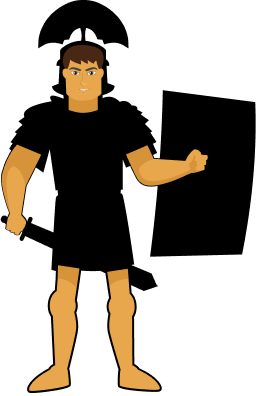
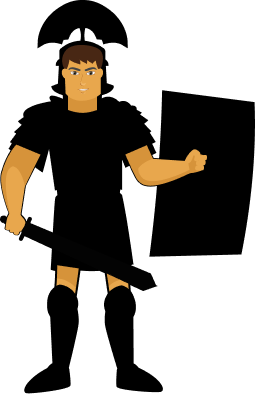
Tweak character, word placement, iOS Build

diff --git a/lib/widgets/heart_modal_widget.dart b/lib/widgets/heart_modal_widget.dart
@@ -88,6 +88,7 @@ class HeartModal extends HookConsumerWidget {
                                   fontFamily: 'PlaypenSans',
                                 ),
                               ),
+                        Divider(),
                         Row(
                           mainAxisAlignment: MainAxisAlignment.spaceBetween,
                           children: [
@@ -99,21 +100,18 @@ class HeartModal extends HookConsumerWidget {
                                   _showKeyboard();
                                 },
                                 icon: const Icon(Icons.edit)),
-                            Container(
-                              decoration: BoxDecoration(border: Border.all()),
-                              child: IconButton(
-                                  padding: const EdgeInsets.all(
-                                      4.0), // Adjust padding
-                                  constraints: const BoxConstraints(
-                                    minWidth:
-                                        24.0, // Adjust these values to make the button smaller
-                                    minHeight: 24.0,
-                                  ),
-                                  onPressed: () {
-                                    onRemove(verses.current[index]);
-                                  },
-                                  icon: const Icon(Icons.delete_forever)),
-                            ),
+                            IconButton(
+                                padding:
+                                    const EdgeInsets.all(0.0), // Adjust padding
+                                constraints: const BoxConstraints(
+                                  minWidth:
+                                      18.0, // Adjust these values to make the button smaller
+                                  minHeight: 18.0,
+                                ),
+                                onPressed: () {
+                                  onRemove(verses.current[index]);
+                                },
+                                icon: const Icon(Icons.delete_forever)),
                           ],
                         )
                       ],

diff --git a/lib/pages/box_page.dart b/lib/pages/box_page.dart
@@ -100,7 +100,7 @@ class BoxPage extends HookConsumerWidget {
                       ),
                     ),
                     Transform.translate(
-                      offset: Offset(0, 15.h),
+                      offset: Offset(0, 40.h),
                       child: Material(
                         color: const Color.fromARGB(
                             250, 158, 61, 61), // Background color
@@ -119,7 +119,7 @@ class BoxPage extends HookConsumerWidget {
                       ),
                     ),
                     Transform.translate(
-                      offset: Offset(0, 15.h),
+                      offset: Offset(0, 40.h),
                       child: Padding(
                         padding: EdgeInsets.symmetric(horizontal: 45.w),
                         child: Text(

diff --git a/lib/widgets/armor_widget.dart b/lib/widgets/armor_widget.dart
@@ -31,12 +31,12 @@ class ArmorWidget extends HookConsumerWidget {
   Widget build(BuildContext context, WidgetRef ref) {
     double screenWidth = MediaQuery.of(context).size.width;
     double screenHeight = MediaQuery.of(context).size.height;
-    double imageWidth = screenHeight * 0.25; // Width of the soldier image
+    double imageWidth = screenHeight * 0.275; // Width of the soldier image
     double imageHeight = imageWidth * 1.539499;
     // 519 x 799
     return Center(
       child: Padding(
-        padding: EdgeInsets.only(left: 32.0.w),
+        padding: EdgeInsets.only(left: 56.0.w, bottom: 24.0.w),
         child: Stack(
           alignment: Alignment.center,
           children: <Widget>[

diff --git a/lib/pages/heart_page.dart b/lib/pages/heart_page.dart
@@ -90,7 +90,7 @@ class HeartPage extends HookConsumerWidget {
               children: [
                 Padding(
                   padding: EdgeInsets.only(
-                      top: 10.h,
+                      top: 50.h,
                       right: MediaQuery.of(context).size.width * 0.05,
                       left: MediaQuery.of(context).size.width * 0.05),
                   child: Column(
